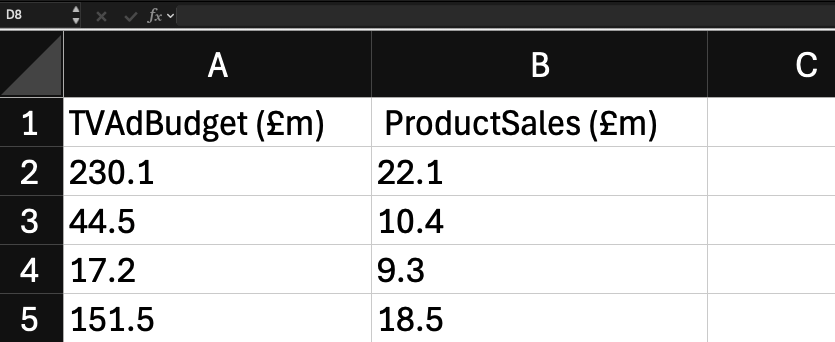
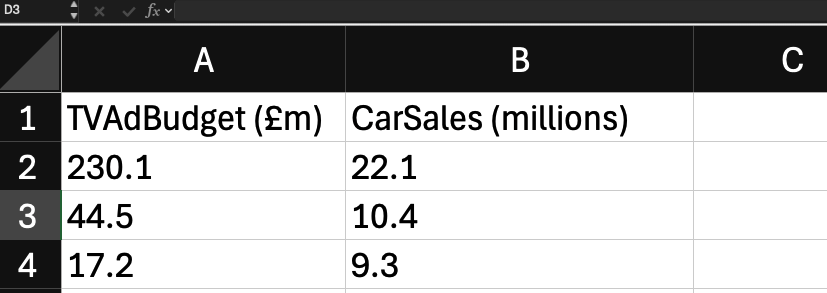
fix small issues

diff --git a/src/data/regressionModels.js b/src/data/regressionModels.js
@@ -315,7 +315,7 @@ export const descriptions = {
     polynomial: {
         title: 'Polynomial Regression',
         math: 'y = w₁x + w₂x² + b',
-        desc: 'Events in life don\'t always progress in a straight line. Sometimes things start slow, then snowball. Other times, things take off rapidly, only to tail off and fade. This model understands that. For polynomial regression, it solves the Normal Equations using Cramer\'s Rule directly in your browser, calculating exact matrix determinants to guarantee the mathematically optimal curve for your specific dataset.',        when: 'When the trend clearly isn\'t straight (e.g. rapid growth then slowing down).',
+        desc: 'Events in life don\'t always progress in a straight line. Some events start slow, then snowball. Other times, things take off rapidly, only to tail off and fade. This model understands that. For polynomial regression, it solves the Normal Equations using Cramer\'s Rule directly in your browser, calculating exact matrix determinants to guarantee the mathematically optimal curve for your specific dataset.',        when: 'When the trend clearly isn\'t straight (e.g. rapid growth then slowing down).',
         howItWorks: 'Instead of just x, we use x² or x³. This lets the line bend. It fits the "inverted U" shape often found in nature and economics.',
         realExample: 'Junior staff get big raises fast; senior staff get smaller percentage raises. Plants grow fast then stop.',
         visualPattern: 'A smooth curve that climbs steep and then flattens out. It follows the "shape" of the data better.',

diff --git a/src/components/regression/RegressionEducation.jsx b/src/components/regression/RegressionEducation.jsx
@@ -104,7 +104,7 @@ export const PolynomialEducation = () => {
                             <li><strong>X:</strong> Time</li>
                             <li><strong>Y:</strong> Views</li>
                         </ul>
-                        <p className={`mt-1 italic ${isDark ? 'text-gray-500' : 'text-gray-500'}`}><b>Assumption:</b> Starts slow, then explodes exponentially.</p>
+                        <p className={`mt-1 italic ${isDark ? 'text-gray-500' : 'text-gray-500'}`}><b>Assumption:</b> Starts slow, then explodes exponentially. Or worse still, a shilled crypto coin, typically with a higher parabolic curve.</p>
                     </div>
                     <p className={`text-center font-bold pt-4 mt-auto ${isDark ? 'text-yellow-400' : 'text-yellow-600'}`}>"Growth accelerates rapidly."</p>
                 </ShapeCard>

diff --git a/src/components/shared/DataUploadButton.jsx b/src/components/shared/DataUploadButton.jsx
@@ -103,9 +103,9 @@ const DataUploadButton = ({ onUpload }) => {
                     </div>
 
                     <p className="mb-1 text-slate-400 leading-relaxed text-xs">
-                        Example: X = TvAdBudget, Y = ProductSales
+                        Example: X = TvAdBudget, Y = CarSales
                     </p>
-                    <p className="mb-3 text-slate-500 leading-relaxed text-[10px] italic">
+                    <p className="mb-3 text-slate-500 leading-relaxed text-[13px] italic">
                         (Tip: Add Units like £ or kg in the headers)
                     </p>
 
